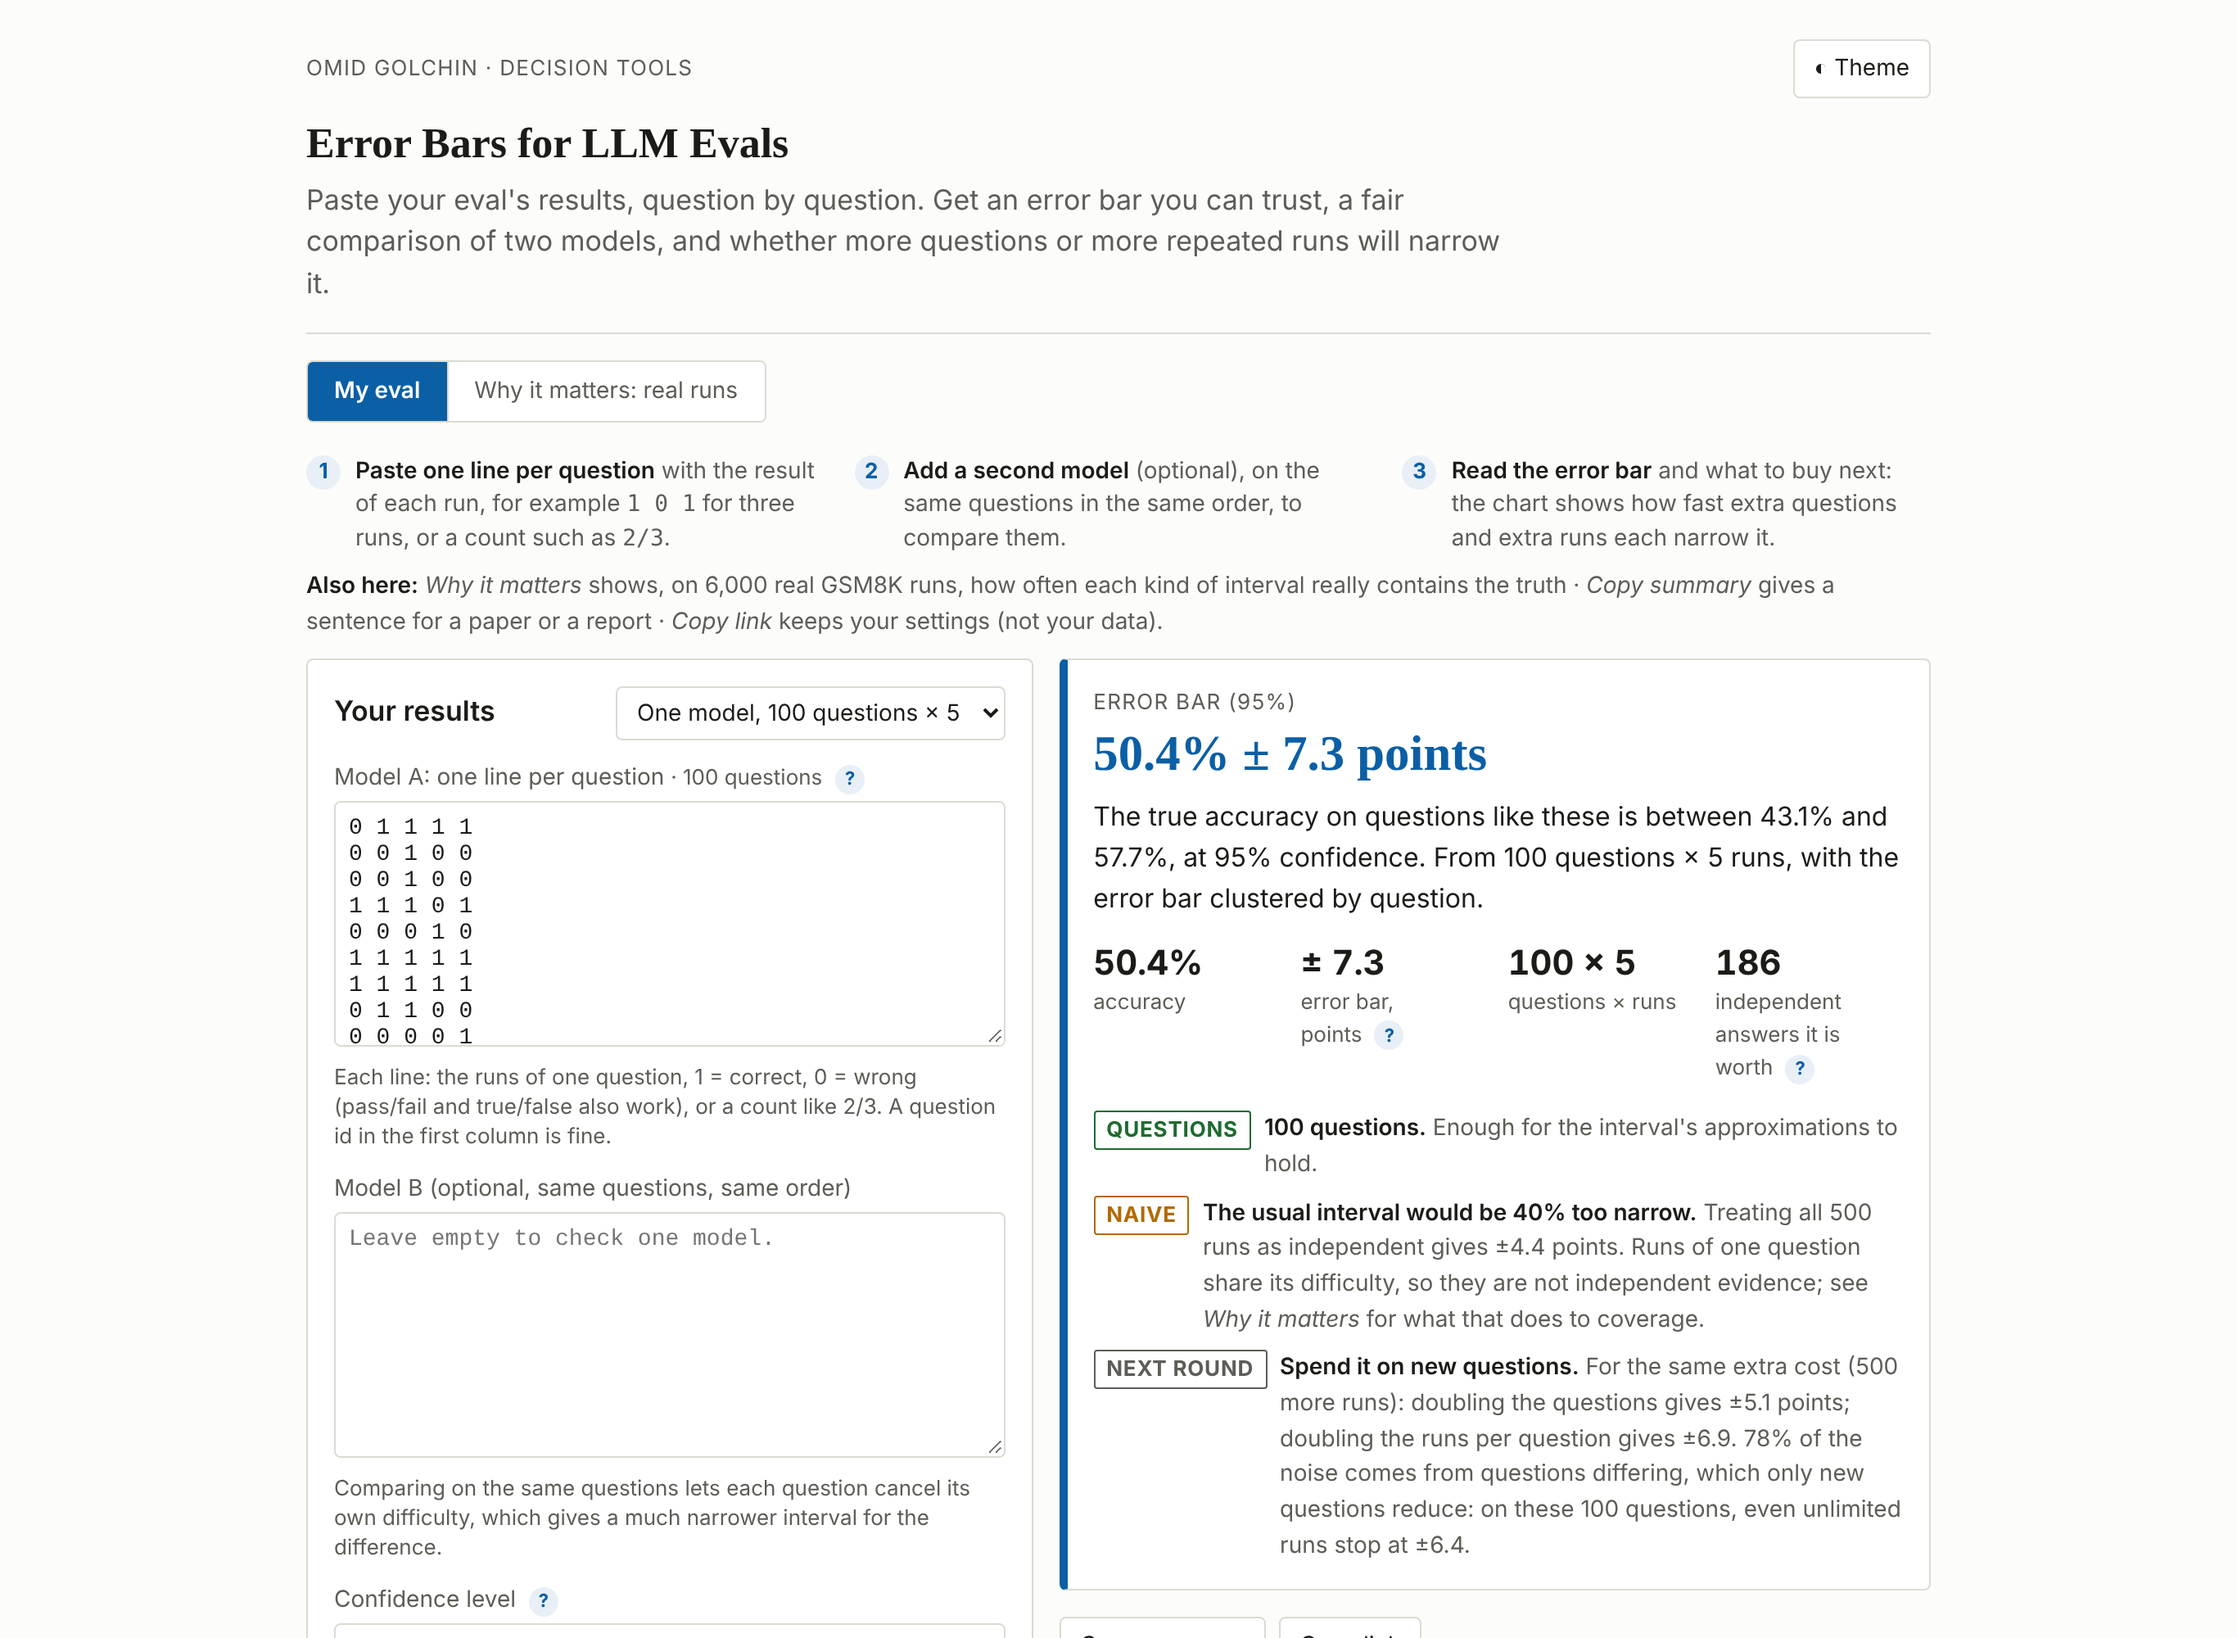
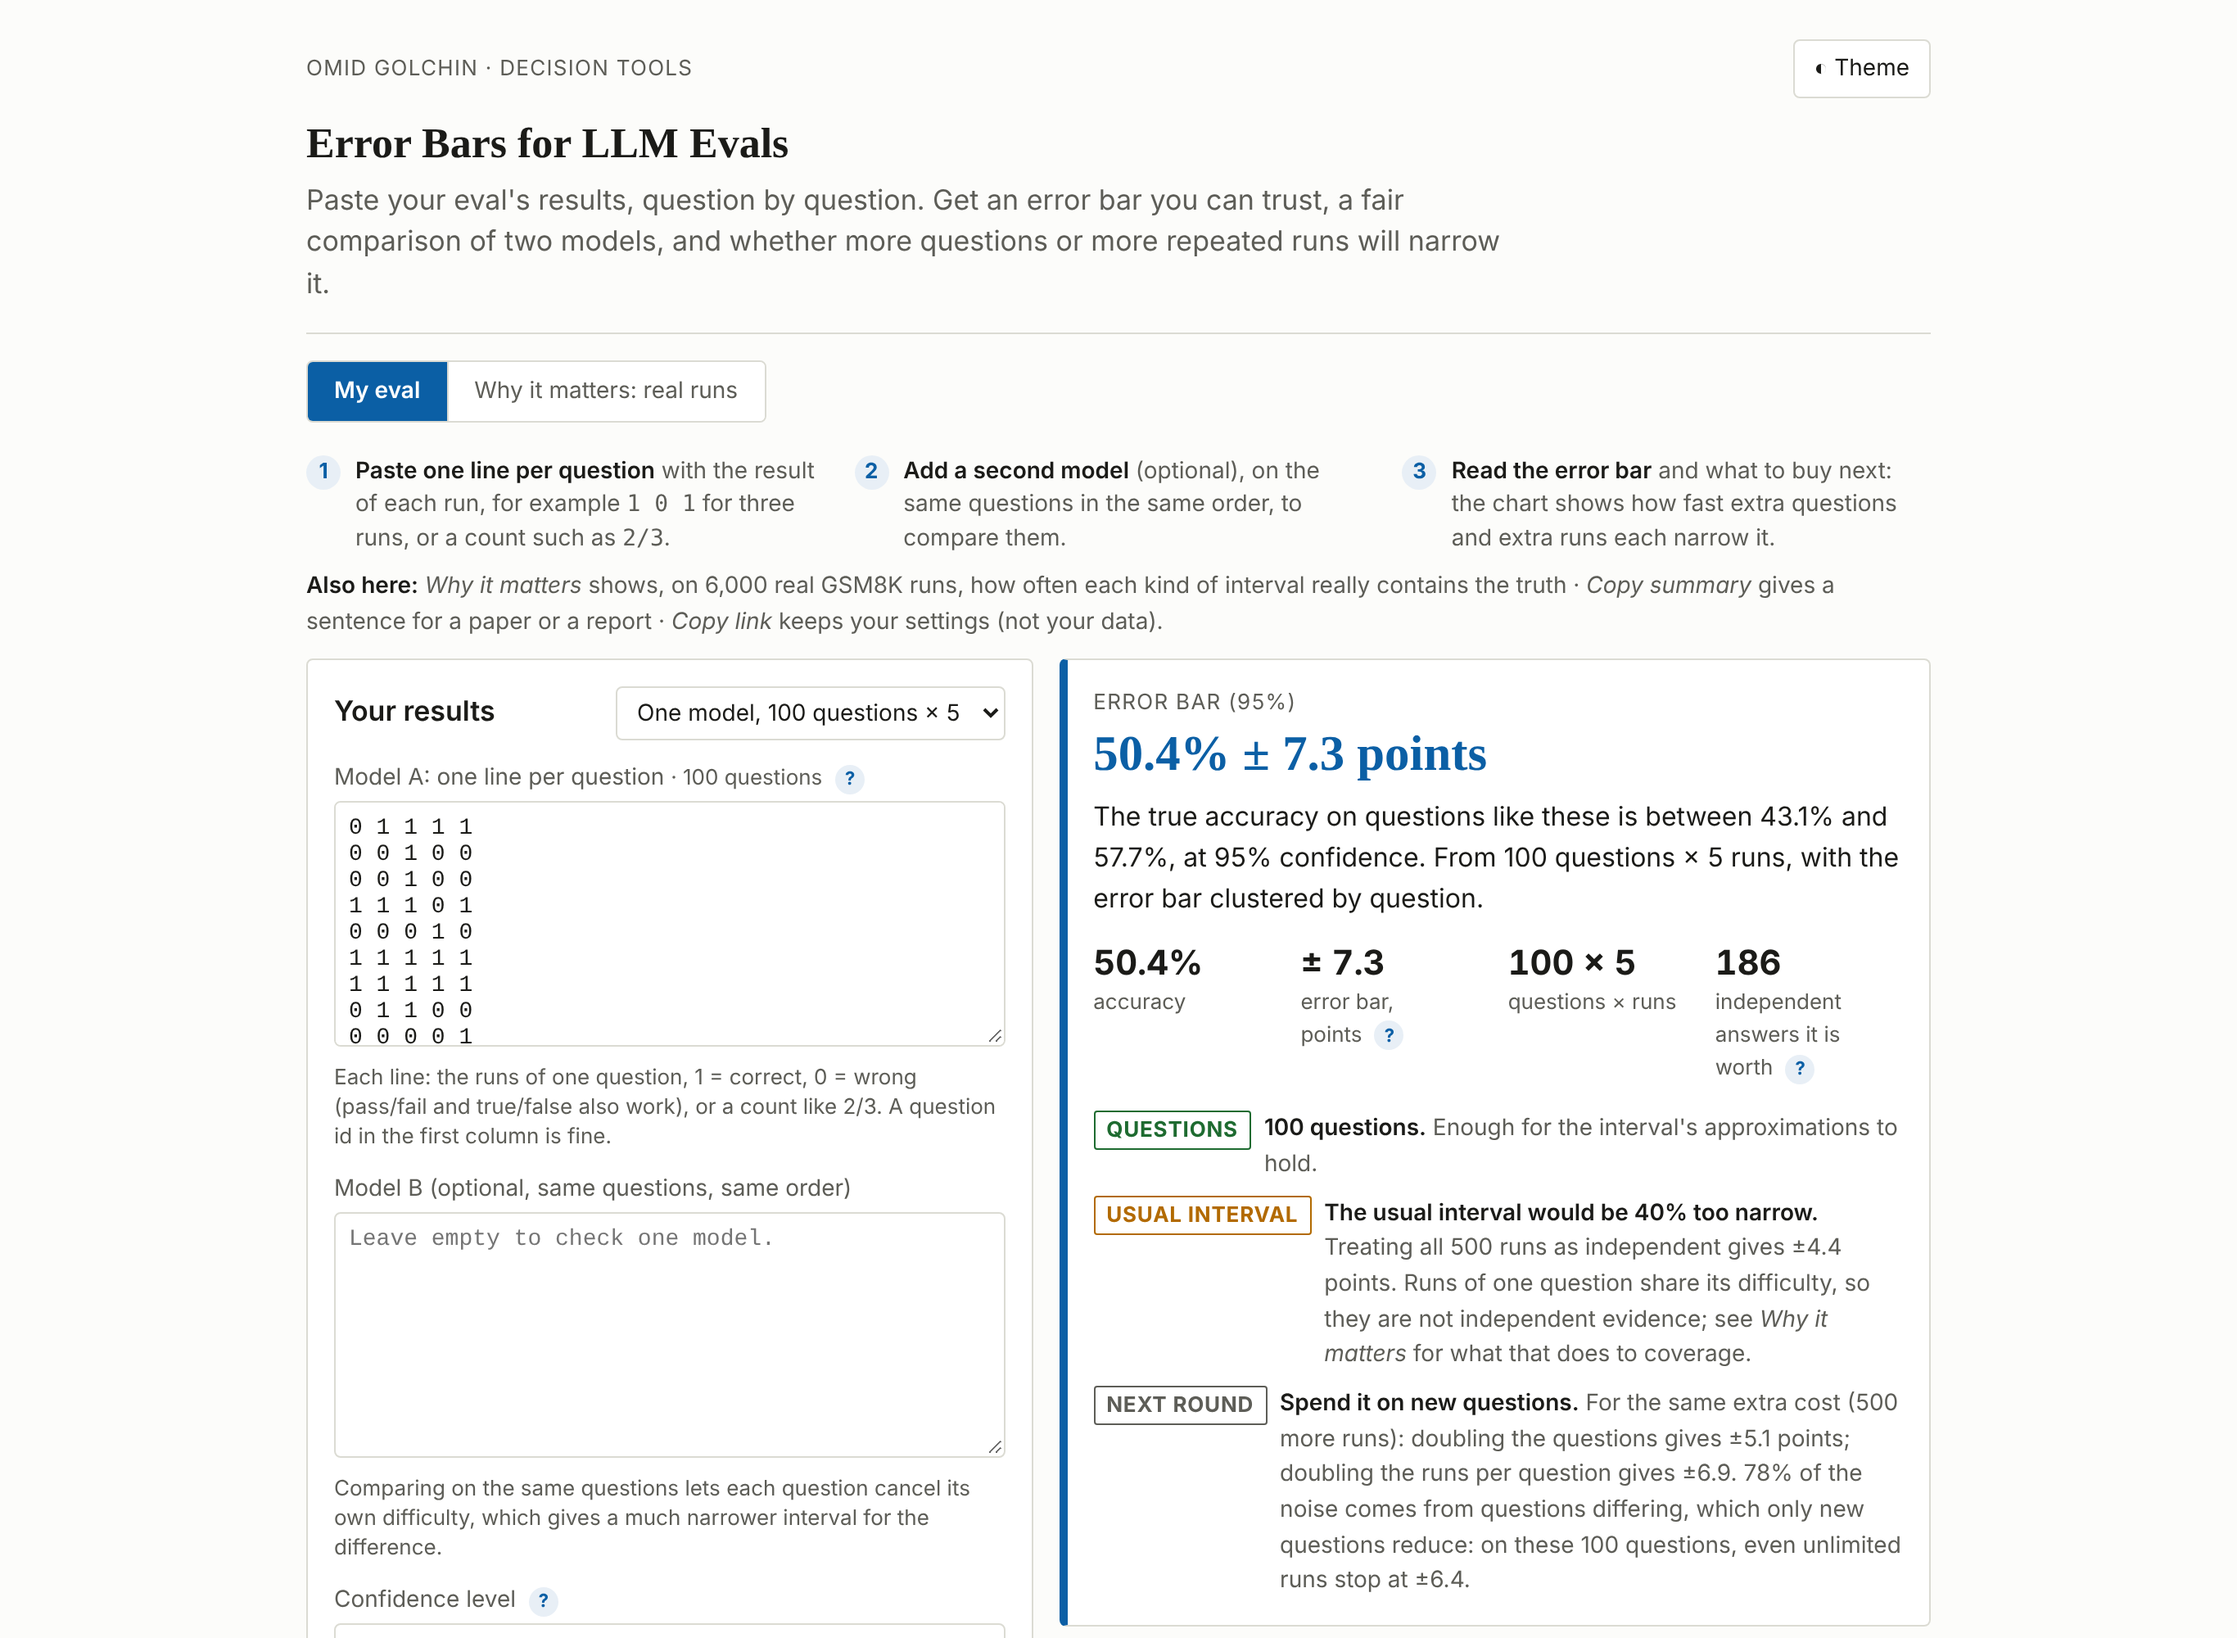
Plain badge text; kit sync
Kit: every ? has a hover title, a Skip to the result link on narrow screens, and an example banner for prefilled demo content. README, hero GIF and screenshots regenerated from the page.

Changed region(s): [[0.4667, 0.713, 0.84, 1.0]]

diff --git a/docs/tool-common.js b/docs/tool-common.js
@@ -9,6 +9,7 @@
  *   Tool.explain(glossary)         "?" buttons that open a plain-language explanation
  *   Tool.siblings(currentRepo)     the "More tools" footer line, from one shared list
  *   Tool.tabs(tablist)             arrow-key support for a mode switch
+ *   Tool.exampleBanner(form, text) marks prefilled example content where it sits
  *
  * No dependencies. Works from file:// and on GitHub Pages.
  */
@@ -433,6 +434,7 @@
       if (btn.tagName === "BUTTON") btn.type = "button";
       if (!btn.textContent.trim()) btn.textContent = "?";
       btn.setAttribute("aria-label", "What is " + g.t.replace(/[.?:]$/, "") + "?");
+      btn.title = "Explain: " + g.t.replace(/[.?:]$/, "");
       btn.setAttribute("aria-expanded", "false");
       // keep the "?" on the same line as the last word before it
       var prev = btn.previousSibling;
@@ -531,16 +533,45 @@
     sync(); new MutationObserver(sync).observe(list, { subtree: true, attributes: true, attributeFilter: ["aria-selected"] });
   }
 
+
+  /* ---------------- example banner, jump to result ---------------- */
+  // Marks prefilled example content where it sits, so a first-time visitor
+  // does not read the demo verdict as their own. text = null hides it.
+  function exampleBanner(form, text) {
+    if (!form) return;
+    var b = form.querySelector(":scope > .ex-banner");
+    if (!text) { if (b) b.hidden = true; return; }
+    if (!b) {
+      b = document.createElement("p"); b.className = "ex-banner"; b.setAttribute("role", "status");
+      var head = form.querySelector(":scope > .panel-head");
+      if (head && head.nextSibling) form.insertBefore(b, head.nextSibling); else form.insertBefore(b, form.firstChild);
+    }
+    b.hidden = false;
+    b.innerHTML = '<span class="ex-tag">Example</span> ' + text;
+  }
+  // On narrow screens the inputs come first; give a way straight to the result.
+  function jumpLinks() {
+    document.querySelectorAll(".work").forEach(function (w, i) {
+      var form = w.querySelector("form.panel"), v = w.querySelector(".verdict");
+      if (!form || !v || form.querySelector(".jump")) return;
+      if (!v.id) v.id = "result-" + i;
+      var a = document.createElement("a"); a.className = "jump"; a.href = "#" + v.id; a.textContent = "Skip to the result ↓";
+      var head = form.querySelector(":scope > .panel-head");
+      if (head && head.nextSibling) form.insertBefore(a, head.nextSibling); else form.insertBefore(a, form.firstChild);
+    });
+  }
+
   if (typeof document !== "undefined") {
     document.addEventListener("DOMContentLoaded", function () {
       var m = location.pathname.match(/\/([^\/]+)\/(?:docs\/)?(?:index\.html)?$/);
       siblings(m ? m[1] : "");
       tabs();
       alignFields();
+      jumpLinks();
     });
   }
 
-  var api = { explain: explain, alignFields: alignFields, closeTip: closeTip, siblings: siblings, tabs: tabs, TOOLS: TOOLS, readParams: readParams, writeParams: writeParams, copy: copy, fmt: fmt, lineChart: lineChart, niceTicks: niceTicks, assist: assist, _buildPrompt: buildPrompt, _parseReply: parseReply, _quoteFound: quoteFound, _coerce: coerce };
+  var api = { explain: explain, alignFields: alignFields, exampleBanner: exampleBanner, jumpLinks: jumpLinks, closeTip: closeTip, siblings: siblings, tabs: tabs, TOOLS: TOOLS, readParams: readParams, writeParams: writeParams, copy: copy, fmt: fmt, lineChart: lineChart, niceTicks: niceTicks, assist: assist, _buildPrompt: buildPrompt, _parseReply: parseReply, _quoteFound: quoteFound, _coerce: coerce };
   if (typeof module !== "undefined" && module.exports) module.exports = api;
   if (typeof window !== "undefined") window.Tool = api;
 })();

diff --git a/docs/mine.js b/docs/mine.js
@@ -80,7 +80,7 @@
       : check("is-ok", "QUESTIONS", n + " questions.", "Enough for the interval's approximations to hold."));
     if (!cmp && kbar > 1) {
       var narrow = 1 - nA.half / A.half;
-      checks.push(check(narrow > 0.15 ? "is-warn" : "is-ok", "NAIVE", "The usual interval would be " + (narrow > 0 ? Math.round(100 * narrow) + "% too narrow." : "about the same."),
+      checks.push(check(narrow > 0.15 ? "is-warn" : "is-ok", "USUAL INTERVAL", "The usual interval would be " + (narrow > 0 ? Math.round(100 * narrow) + "% too narrow." : "about the same."),
         "Treating all " + A.total.toLocaleString("en-US") + " runs as independent gives ±" + pts(nA.half) + " points. Runs of one question share its difficulty, so they are not independent evidence; see <i>Why it matters</i> for what that does to coverage."));
     }
     var next = nextBuy(pa.rows, A, vcA, level);

diff --git a/docs/tool.css b/docs/tool.css
@@ -138,3 +138,7 @@ select.example { font-size: var(--fs-small); }
 .fields.sg-on > :not(.sg) { margin-bottom: var(--sp-3); }
 .fields.sg-on > .group-label { margin: var(--sp-2) 0 6px; }
 .field-after:empty { display: none; }
+.ex-banner { margin: 0 0 var(--sp-3); padding: 6px 10px; border-radius: var(--radius); background: var(--accent-soft); color: var(--fg); font-size: var(--fs-small); line-height: 1.45; }
+.ex-banner .ex-tag { display: inline-block; font-size: var(--fs-caption); font-weight: 700; letter-spacing: .04em; text-transform: uppercase; color: var(--accent); margin-right: 4px; }
+.jump { display: none; }
+@media (max-width: 820px) { .jump { display: inline-block; margin: 0 0 var(--sp-3); font-size: var(--fs-small); font-weight: 600; } }
